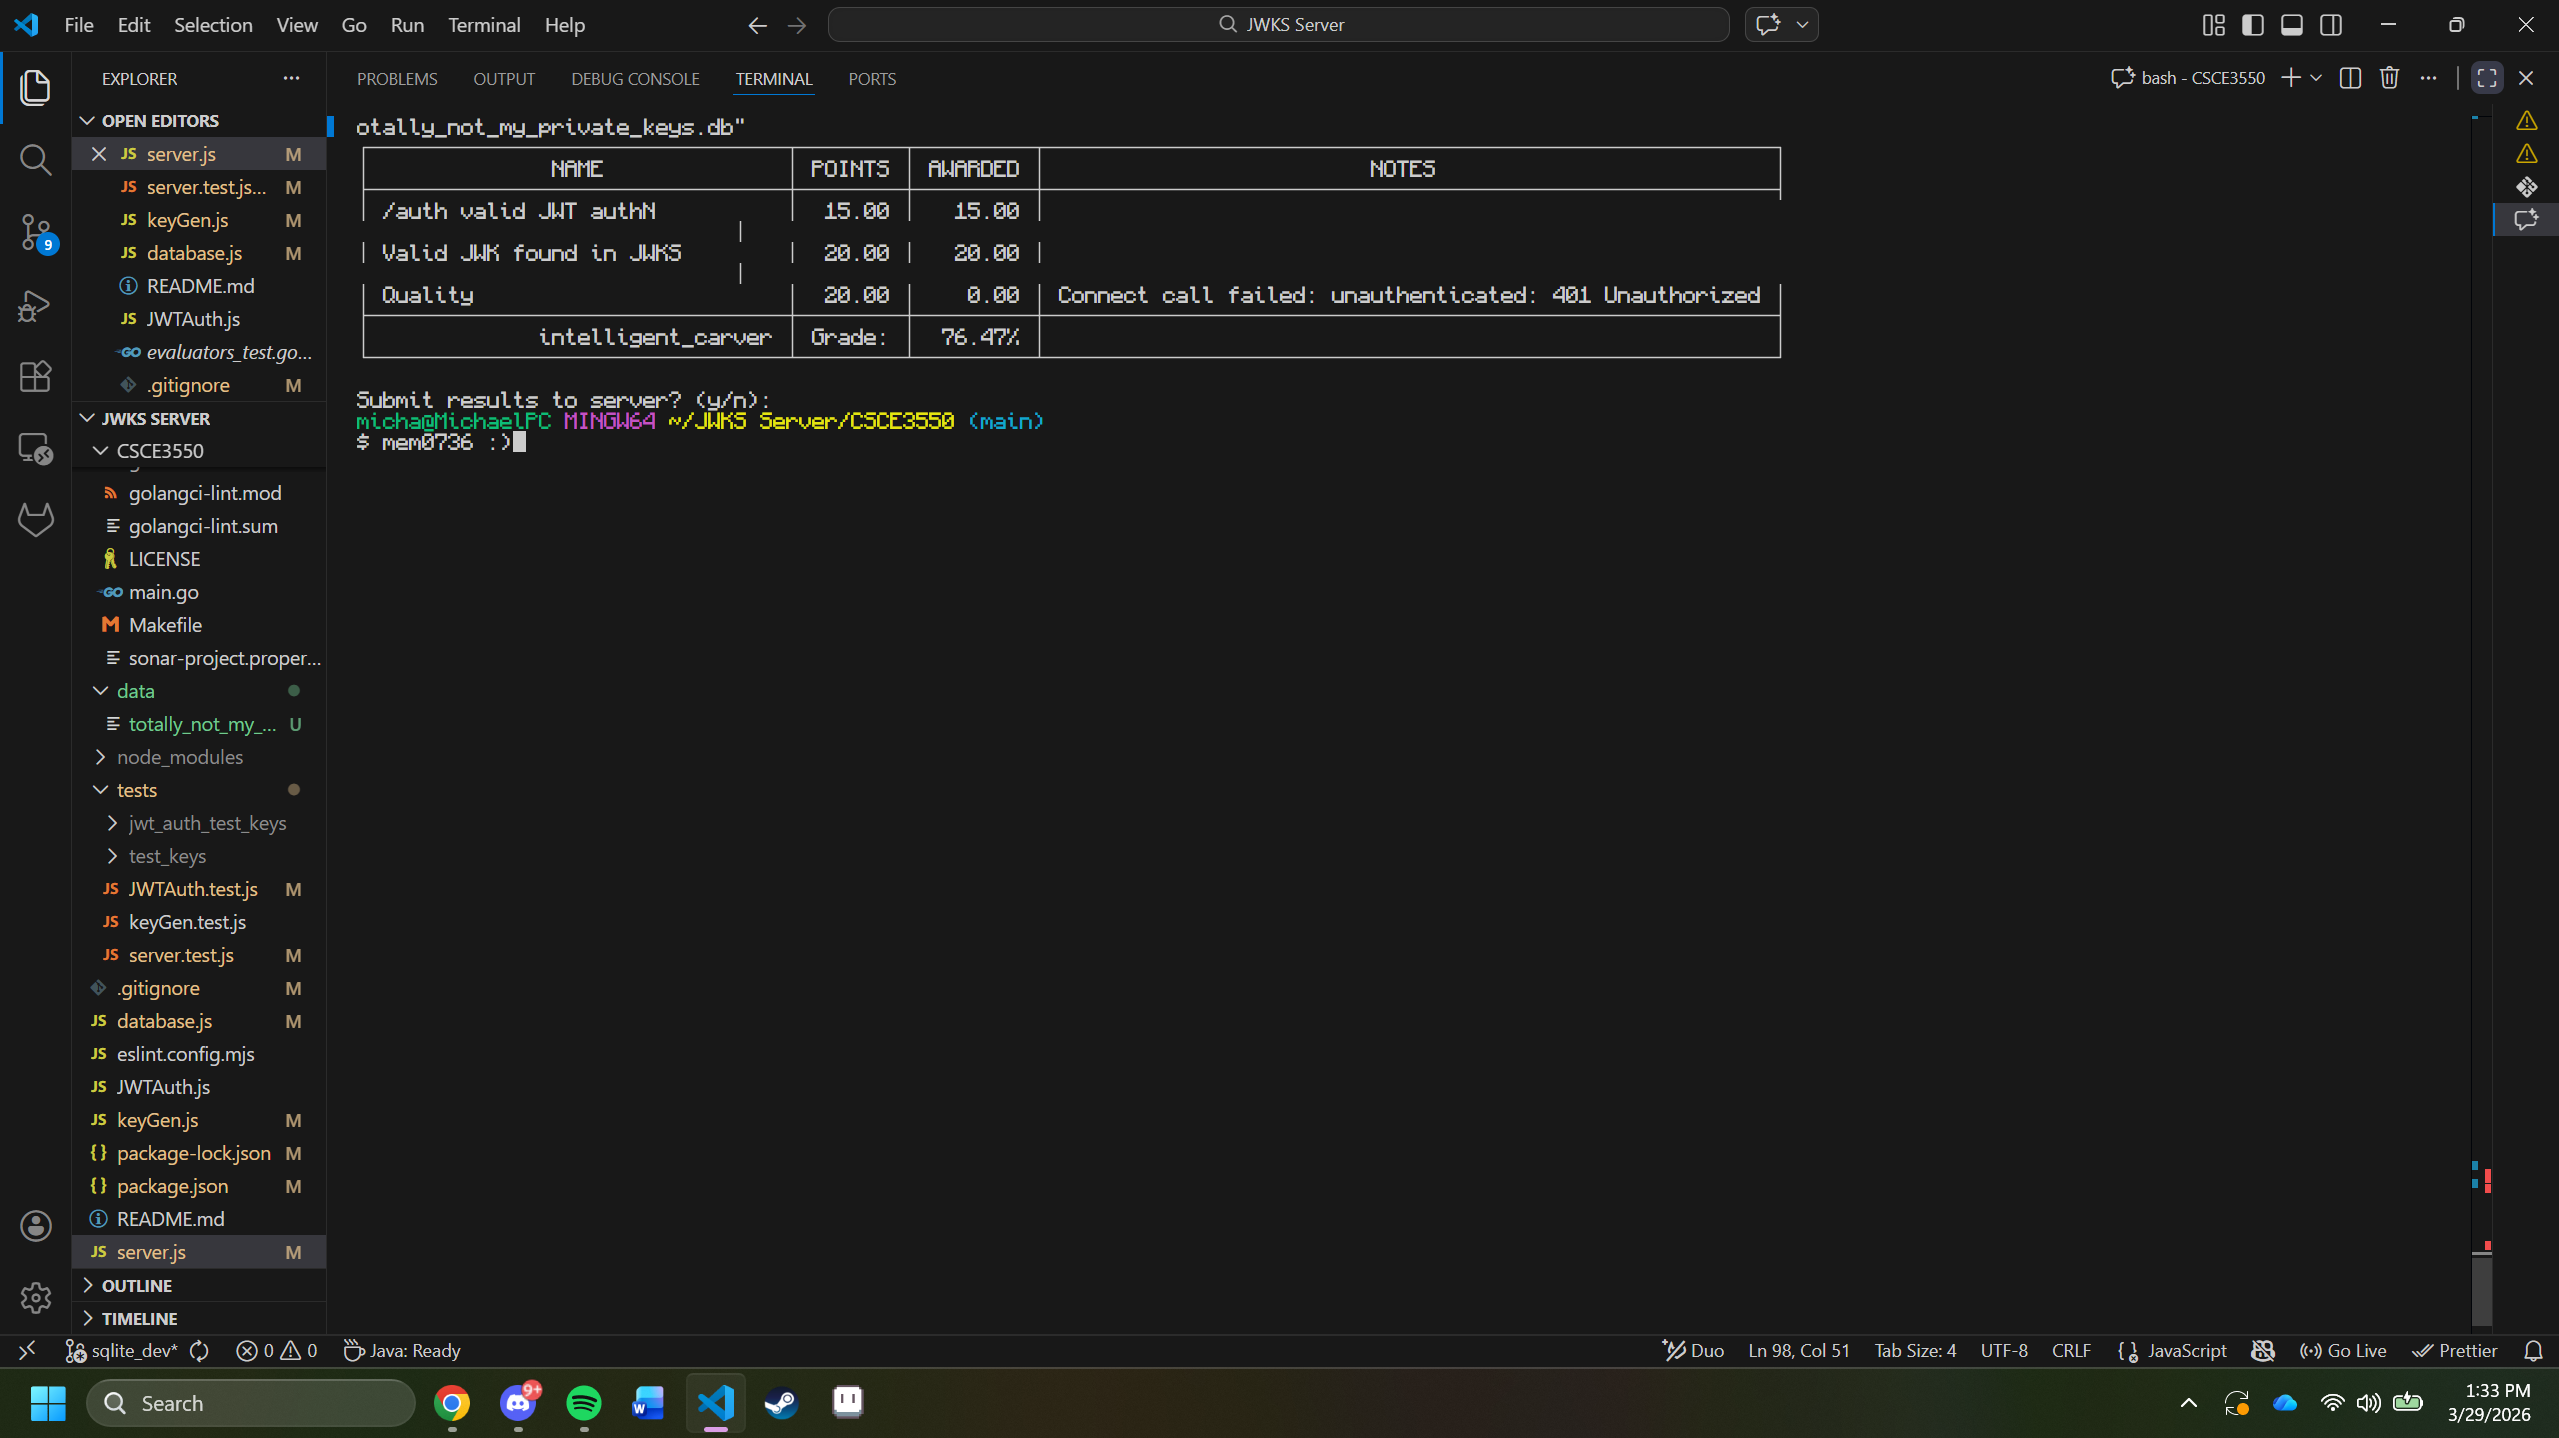
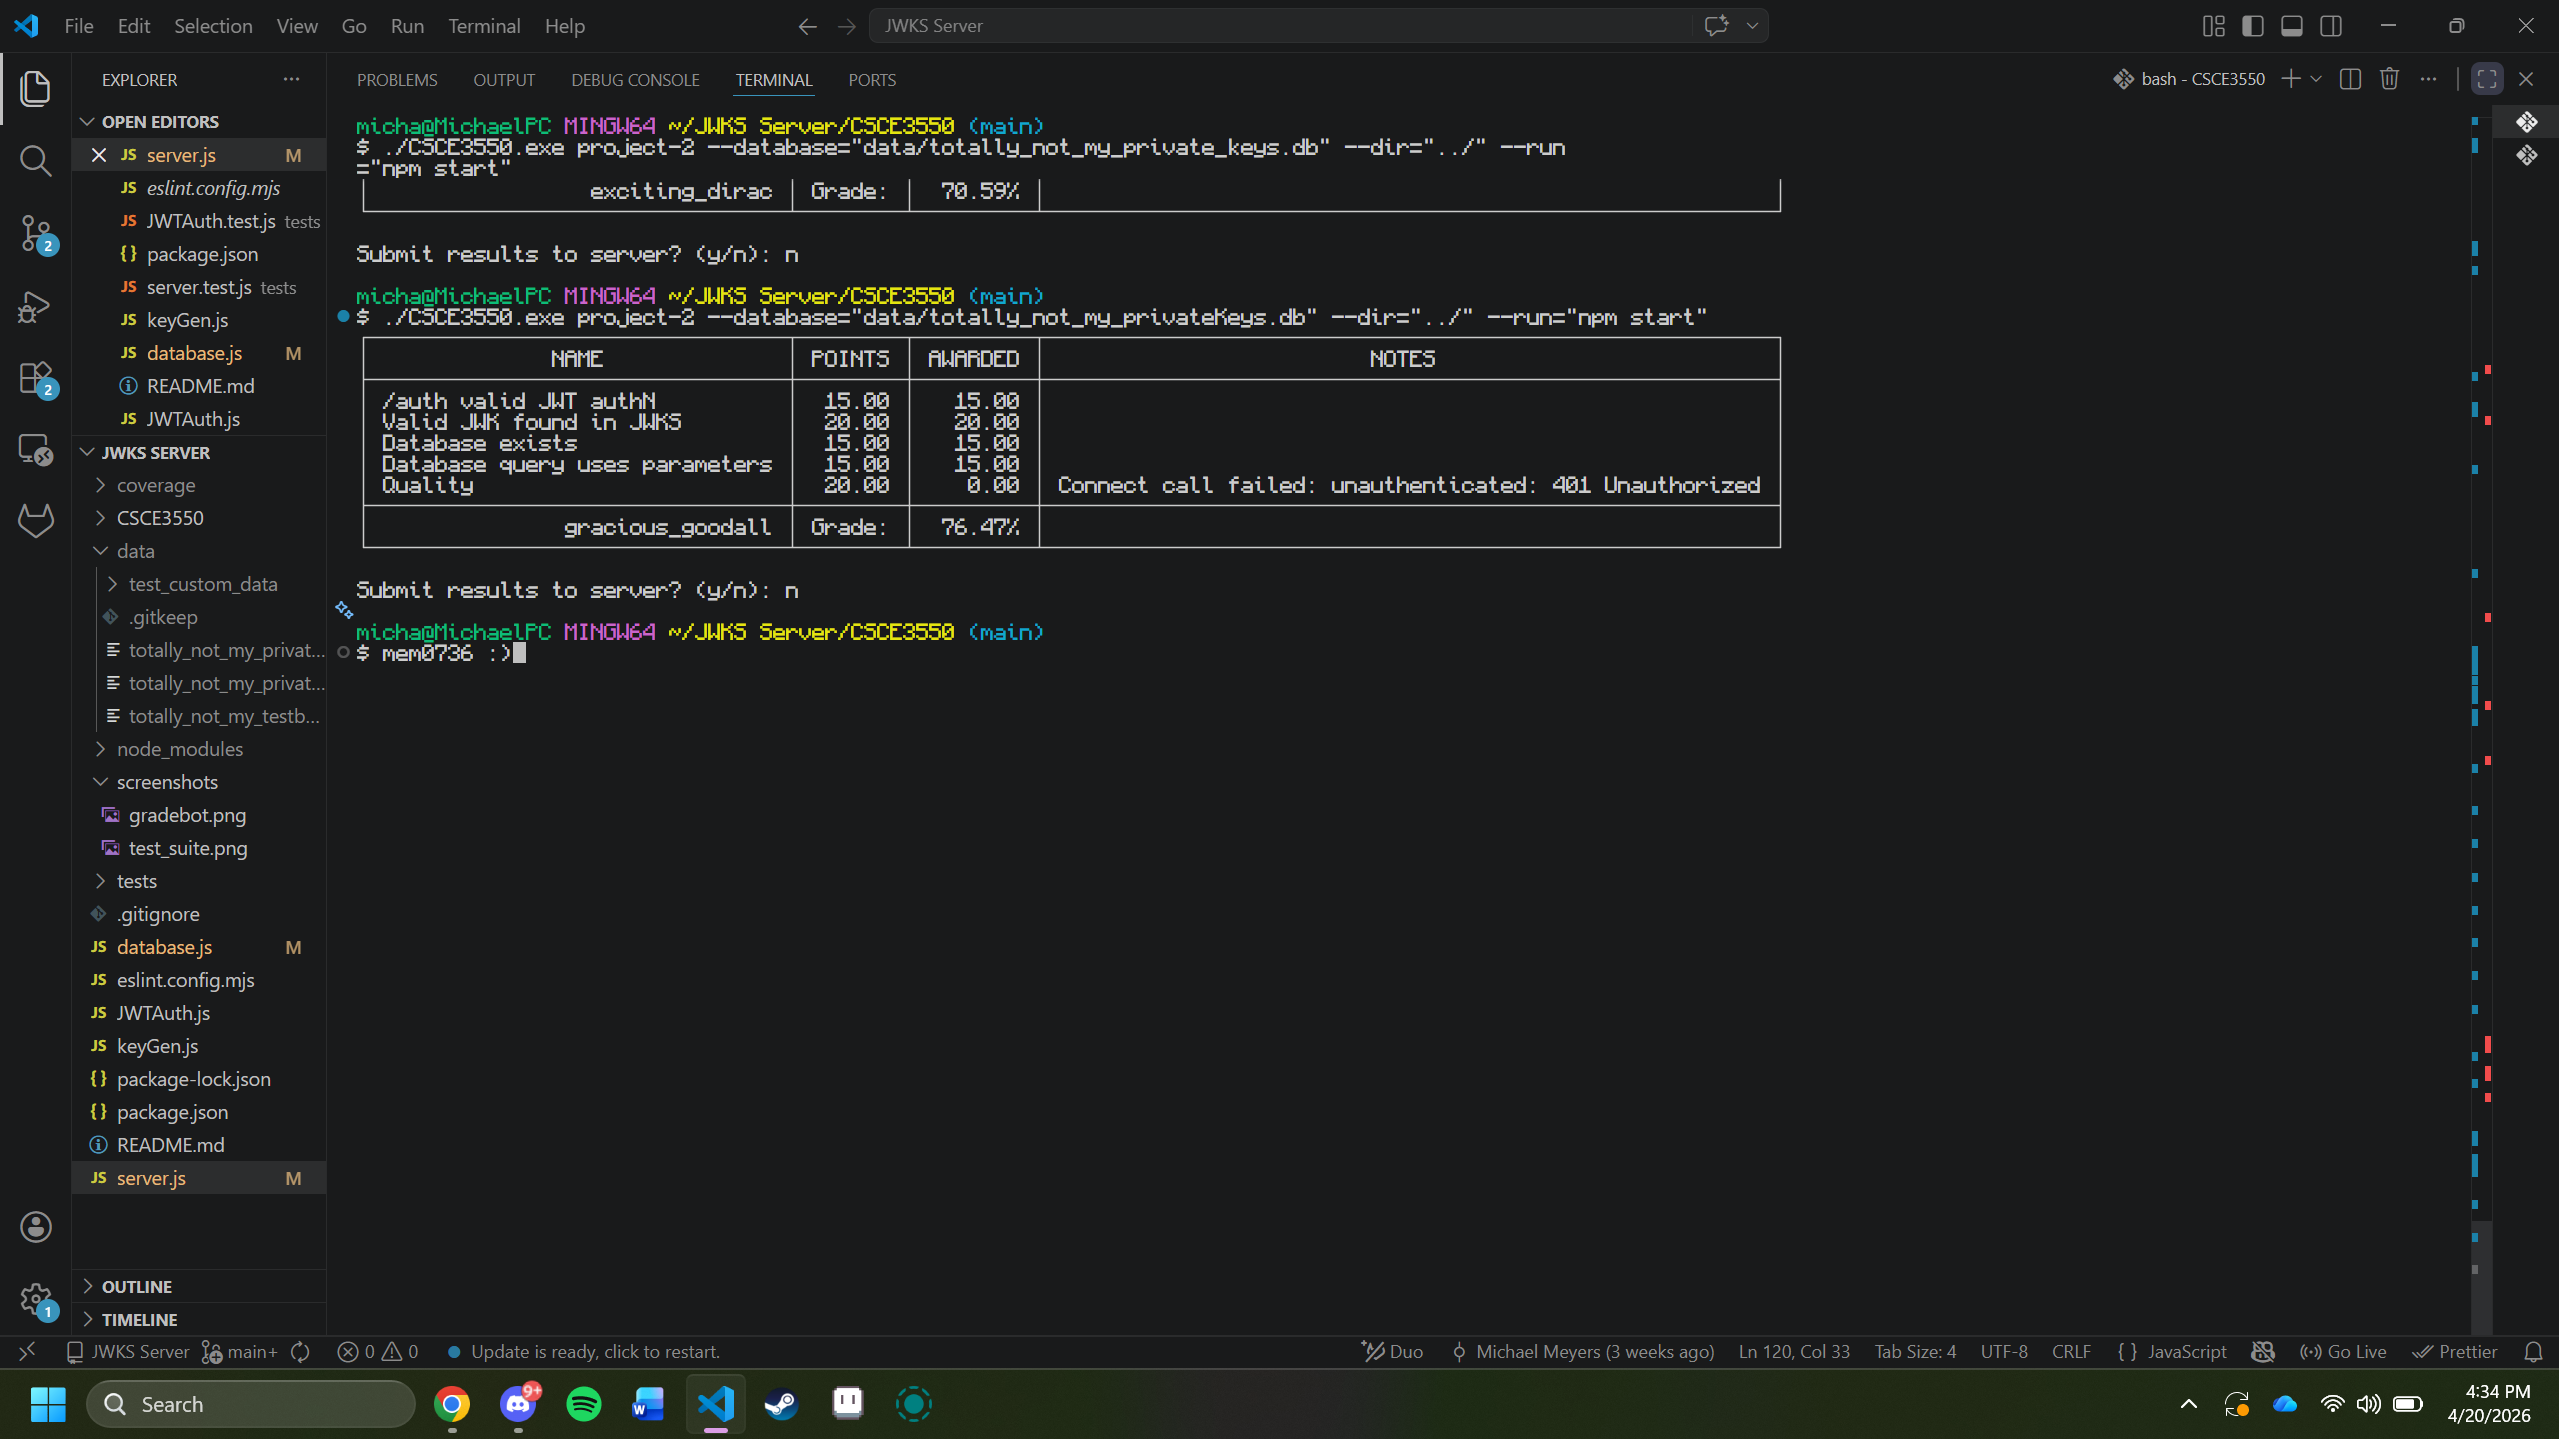
Fixed gradebot screenshot and naming convention for database file

diff --git a/server.js b/server.js
@@ -1,7 +1,7 @@
 const express = require('express');
 const crypto = require('crypto');
 const {signJWT} = require('./JWTAuth');
-const {genAndStoreKeys, loadKeys, cleanExpiredKeys} = require('./keyGen');
+const {genAndStoreKeys, loadKeys, loadExpKeys, cleanExpiredKeys} = require('./keyGen');
 const {initDatabase, closeDatabase} = require('./database');
 
 const app = express();
@@ -99,14 +99,12 @@ app.use((req, res) => {
 			genAndStoreKeys(0);
 		}
 
-		// Key rotation, time (in hours) defined by function input
-		setInterval (() => {
-			console.log('Rotating Keys');
-			genAndStoreKeys();
-			cleanExpiredKeys();
-		}, keyRotation * (60 * 60 * 1000)); // default is 1 hour rotation
-
-		// start server on port (8080)
+	// Check if expired keys exist, if not generate one
+	const expiredKeys = loadExpKeys();
+	if (expiredKeys.length === 0) {
+		console.log('No expired keys, generating one for testing');
+		genAndStoreKeys(0);
+	}
 		const server = app.listen(port, () => {
 		console.log(`Server started... listening on port: ${port}`)
 

diff --git a/database.js b/database.js
@@ -8,7 +8,7 @@ let db = null;
 function initDatabase(dbFile = null) {
 	
 	// dbFile can be used instead; for testing
-	const finalFile = dbFile || 'totally_not_my_private_keys.db'
+	const finalFile = dbFile || 'totally_not_my_privateKeys.db'
 	const finalPath = path.join(__dirname, 'data', finalFile);
 
 	// Ensures that data/ is created if doesn't exist
